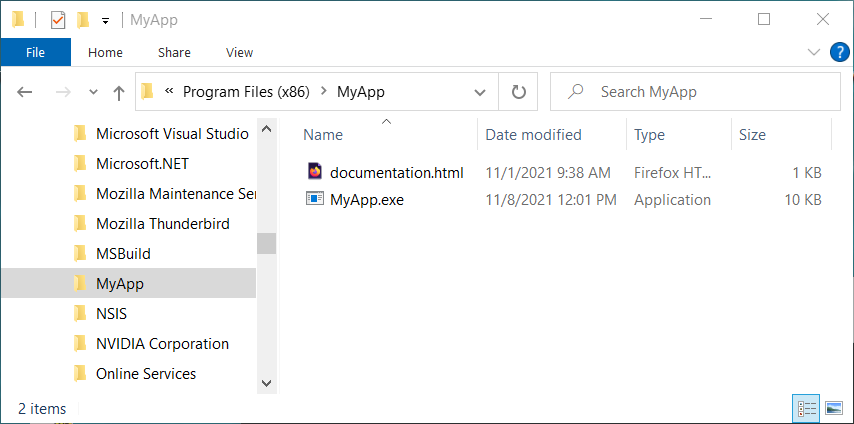
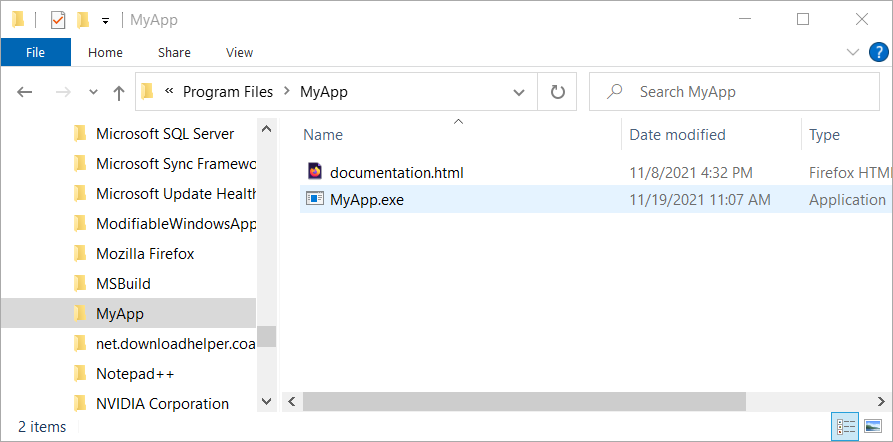
use variables ProgramFiles64Folder/System64Folder

diff --git a/examples/README.md b/examples/README.md
@@ -51,7 +51,7 @@ Y:\examples\MyApp
 &nbsp;
 <b>&gt; <a href="https://docs.microsoft.com/en-us/windows-server/administration/windows-commands/tree">tree</a> /f . | <a href="https://docs.microsoft.com/en-us/windows-server/administration/windows-commands/findstr">findstr</a> /v /b [a-z]</b>
 │   <a href="./MyApp/build.bat">build.bat</a>          <i>(calls candle/light)</i>
-│   <a href="./MyApp/build.properties">build.properties</a>   <i>(contains GUID values)</i>
+│   <a href="./MyApp/build.properties">build.properties</a>   <i>(contains GUID (name,value) pairs)</i>
 ├───<b>app</b>
 │   └───<b>HelloWorld</b>
 │       │   <a href="./MyApp/app/HelloWorld/00download.txt">00download.txt</a>
@@ -63,7 +63,7 @@ Y:\examples\MyApp
 │           └───<b>src</b>
 │                   <a href="./MyApp/app/HelloWorld/cpp/src/main.cpp">main.cpp</a>
 └───<b>src</b>
-        <a href="./MyApp/src/MyApp.wxs">MyApp.wxs</a>
+        <a href="./MyApp/src/MyApp.wxs">MyApp.wxs</a>      <i>(contains GUID names)</i>
 </pre>
 
 > **:mag_right:** In order the have a *self-contained* example we include the [`HelloWorld`](./MyApp/HelloWorld/) subproject which contains a simple [Visual Studio solution][vs_solution] for generating `MyApp.exe` to be added to the `MyApp` Windows installer.
@@ -77,8 +77,8 @@ Copy executable "MyApp.exe" to directory "Y:\examples\MyApp\app\"
 Generate auxiliary WXS file
 [...]
 Compiling 1 WXS files to directory "target"
-Create Windows installer "target\MyApp.msi"
-Execute Windows installer "target\MyApp.msi"
+Create Windows installer "target\MyApp-1.0.0.msi"
+Execute Windows installer "target\MyApp-1.0.0.msi"
 </pre>
 
 Figures **1.1** and **1.2** below illustrate the updated user environment after the successful execution of the `MyApp` Windows installer.
@@ -89,7 +89,7 @@ Figures **1.1** and **1.2** below illustrate the updated user environment after 
 <tr>
 <td style="text-align:center;">
   <a href="images/MyApp.png"><img style="max-width:180px;" src="images/MyApp.png" /></a>
-  <div style="font-size:70%;"><b>Figure 1.1 -</b> <i>MyApp</i> executable<br>(<i>Program Files (x86)</i> folder).
+  <div style="font-size:70%;"><b>Figure 1.1 -</b> <i>MyApp</i> executable<br>(<i>Program Files</i> folder).
 </td>
 <td style="text-align:center;">
   <a href="images/MyApp_Uninstall.png"><img style="max-width:180px;" src="images/MyApp_Uninstall.png" /></a>
@@ -118,20 +118,20 @@ Figures **2.1** to **2.4** below illustrate the updated user environment after t
 <td style="text-align:center;">
   <div>
   <a href="images/MyAppShortcuts.png"><img style="max-width:180px;" src="images/MyAppShortcuts.png" /></a>
-  <div style="font-size:70%;"><b>Figure 2.1 -</b> <i>MyApp</i> executable<br/>(<i>Program Files (x86)</i> folder).<br/>&nbsp;
+  <div style="font-size:70%;"><b>Figure 2.1 -</b> <i>MyApp</i> executable<br/>(<i>Program Files</i> folder).<br/>&nbsp;
   </div>
   <div>
-  <a href="images/MyAppShortcuts_Menu.png"><img style="max-width:180px;" src="images/MyAppShortcuts_Menu.png" /></a>
+  <a href="images/MyAppShortcuts_StartMenu.png"><img style="max-width:180px;" src="images/MyAppShortcuts_StartMenu.png" /></a>
   <div style="font-size:70%;"><b>Figure 2.2 -</b> <i>MyApp</i> shortcuts<br/>(<a href="https://support.microsoft.com/en-us/windows/see-what-s-on-the-start-menu-a8ccb400-ad49-962b-d2b1-93f453785a13"><i>Start Menu</i></a> folder).
   </div>
 </td>
 <td style="text-align:center;">
   <a href="images/MyAppShortcuts_Uninstall.png"><img style="max-width:180px;" src="images/MyAppShortcuts_Uninstall.png" /></a>
-  <div style="font-size:70%;"><b>Figure 2.3 -</b> Uninstalling <i>MyApp</i><br/>(<i>Settings</i> window).
+  <div style="font-size:70%;"><b>Figure 2.3 -</b> Uninstall <i>MyApp</i><br/>(<i>Settings</i> window).
 </td>
 <td style="text-align:center;">
   <a href="images/MyAppShortcuts_Uninstall_Properties.png"><img style="max-width:180px;" src="images/MyAppShortcuts_Uninstall_Properties.png" /></a>
-  <div style="font-size:70%;"><b>Figure 2.4 -</b> Shortcut Properties<br/>(<i>Uninstall</i> shortcut).
+  <div style="font-size:70%;"><b>Figure 2.4 -</b> Shortcut properties<br/>(<i>Uninstall</i> shortcut).
 </td>
 </tr>
 </table>
@@ -152,7 +152,7 @@ Y:\examples\MyAppLocalized
 ├───<b>app</b>
 │   │   <a href="./MyAppLocalized/app/documentation.html">documentation.html</a>
 │   └───<b>HelloWorld</b>
-│           <i>(same as before)</i>
+│           ... <i>(same as before)</i>
 └───<b>src</b>
     │   <a href="./MyAppLocalized/src/Includes.wxi">Includes.wxi</a>
     │   <a href="./MyAppLocalized/src/MyAppLocalized.wxs">MyAppLocalized.wxs</a>
@@ -161,6 +161,22 @@ Y:\examples\MyAppLocalized
             <a href="./MyAppLocalized/src/localizations/en-US.xwl">en-US.wxl</a>
             <a href="./MyAppLocalized/src/localizations/fr-FR.wxl">fr-FR.wxl</a>
             <a href="./MyAppLocalized/src/localizations/README.txt">README.txt</a>
+</pre>
+
+The batch subcommand `link`generates one localized Windows installer for every localization file found in the directory `src\localizations\`.
+
+<pre style="font-size:80%;">
+<b>&gt; <a href="./MyAppLocalized/build.bat">build</a> clean link &amp;&amp; <a href="https://docs.microsoft.com/en-us/windows-server/administration/windows-commands/dir">dir</a> /a-d /b target</b>
+candle_opts.txt
+candle_sources.txt
+light_opts.txt
+MyApp-1.0.0-de-DE.msi
+MyApp-1.0.0-de-DE.wixpdb
+MyApp-1.0.0-fr-FR.msi
+MyApp-1.0.0-fr-FR.wixpdb
+MyApp-1.0.0.msi
+MyApp-1.0.0.wixpdb
+MyAppLocalized.wixobj
 </pre>
 
 ## <span id="myapp_features">MyAppFeatures</span>
@@ -221,21 +237,21 @@ Figures **3.1** to **3.4** below illustrate the localized graphical user interfa
 <td style="text-align:center;">
   <div>
   <a href="images/uberAgent_Setup1.png"><img style="max-width:180px;" src="images/uberAgent_Setup1.png" /></a>
-  <div style="font-size:70%;"><b>Figure 3.1 -</b> Welcome<br/>(<i>uberAgent</i> Windows installer).<br/>&nbsp;
+  <div style="font-size:70%;"><b>Figure 3.1 -</b> Welcome<br/>(<i>uberAgent</i> installer).<br/>&nbsp;
   </div>
   <div>
   <a href="images/uberAgent_Setup2.png"><img style="max-width:180px;" src="images/uberAgent_Setup2.png" /></a>
-  <div style="font-size:70%;"><b>Figure 3.2 -</b> EULA<br/><i>(uberAgent</i> Windows installer).
+  <div style="font-size:70%;"><b>Figure 3.2 -</b> EULA<br/><i>(uberAgent</i> installer).
   </div>
 </td>
 <td style="text-align:center;">
   <div>
   <a href="images/uberAgent_Setup3.png"><img style="max-width:180px;" src="images/uberAgent_Setup3.png" /></a>
-  <div style="font-size:70%;"><b>Figure 3.3 -</b> Destination Folder<br/>(<i>uberAgent</i> Windows installer).<br/>&nbsp;
+  <div style="font-size:70%;"><b>Figure 3.3 -</b> Destination Folder<br/>(<i>uberAgent</i> installer).<br/>&nbsp;
   </div>
   <div>
   <a href="images/uberAgent_Setup4.png"><img style="max-width:180px;" src="images/uberAgent_Setup4.png" /></a>
-  <div style="font-size:70%;"><b>Figure 3.4 -</b> Receiver Configuration<br/><i>(uberAgent</i> Windows installer).
+  <div style="font-size:70%;"><b>Figure 3.4 -</b> Receiver Configuration<br/><i>(uberAgent</i> installer).
   </div>
 </td>
 </tr>

diff --git a/RESOURCES.md b/RESOURCES.md
@@ -25,14 +25,17 @@
   - [Create a Windows Installer "MSI" using WiX part2](https://sorceryforce.net/en/tips/wix-installer-create2), October 2021.
   - [Create a Windows Installer "MSI" using WiX part1](https://sorceryforce.net/en/tips/wix-installer-create1), April 2020.
   - [Set up WiX to create Windows Installer for program distribution](https://sorceryforce.net/en/tips/wix-setup), April 2020.
+- [Blog](https://robmensching.com/blog/) from Rob Mensching :
+  - [The WiX toolset's "Remember Property" pattern][blog_mensching_2010], May 2010.
+  - [How to escape the ampersand in WiX and MSI UI][blog_mensching_2008], April 2008.
 - [Real-World Example: WiX/MSI Application Installer][blog_klein] by Helge Klein, February 2021.
 - [Variables and Conditional Statements in WiX][blog_kumar] by Arun Kumar, June 2014.
+- [L10N/M10N: Localization minimization][blog_arnson] by Bob Arnson, February 2013.
 - [WiX 3 Tutorial: Custom EULA License and MSI localization](https://weblogs.sqlteam.com/mladenp/2010/04/15/wix-3-tutorial-custom-eula-license-and-msi-localization/)  by Mladen Prajdić, April 2010.
 - [WiX 3 Tutorial: Generating file/directory fragments with Heat.exe](https://weblogs.sqlteam.com/mladenp/2010/02/23/wix-3-tutorial-generating-filedirectory-fragments-with-heat.exe/) by Mladen Prajdić, February 2010.
 - [WiX 3 Tutorial: Understanding main WXS and WXI file](https://weblogs.sqlteam.com/mladenp/2010/02/17/wix-3-tutorial-understanding-main-wxs-and-wxi-file/) by Mladen Prajdić, February 2010.
 - [WiX 3 Tutorial: Solution/Project structure and Dev resources](https://weblogs.sqlteam.com/mladenp/2010/02/11/wix-3-tutorial-solutionproject-structure-and-dev-resources/) by Mladen Prajdić, February 2010.
 - [Adding and Customizing Dialogs in WiX 3][blog_dizzy] by Dizzy, 2008.
-- [How to escape the ampersand in WiX and MSI UI][blog_mensching] by Rob Mensching, April 2008.
 - [WiX: A Better TALLOW – PARAFFIN (Part 3 of 3)][blog_robbin3] by John Robbins, October 2007.
 - [WiX: The Pain of WiX (Part 2 of 3)][blog_robbin2] by John Robbins, October 2007.
 - [WiX: Hints for New Users (Part 1 of 3)][blog_robbin1] by John Robbin, October 2007.
@@ -102,9 +105,11 @@ version = "12"
 [article_carlisle3]: https://www.codeproject.com/Articles/103749/Creating-a-Localized-Windows-Installer-Bootstrap-3
 [article_hashimi]: https://docs.microsoft.com/en-us/archive/msdn-magazine/2007/march/automate-releases-with-msbuild-and-windows-installer-xml
 [article_moack]: https://www.codeproject.com/Tips/105638/A-quick-introduction-Create-an-MSI-installer-with
+[blog_arnson]: https://www.joyofsetup.com/2013/02/06/l10nm10n-localization-minimization/
 [blog_dizzy]: http://www.dizzymonkeydesign.com/blog/misc/adding-and-customizing-dlgs-in-wix-3/
 [blog_klein]: (https://helgeklein.com/blog/real-world-example-wix-msi-application-installer/)
-[blog_mensching]: https://robmensching.com/blog/posts/2008/4/21/how-to-escape-the-ampersand-in-wix-and-msi-ui/
+[blog_mensching_2008]: https://robmensching.com/blog/posts/2008/4/21/how-to-escape-the-ampersand-in-wix-and-msi-ui/
+[blog_mensching_2010]: https://robmensching.com/blog/posts/2010/5/2/the-wix-toolsets-remember-property-pattern/
 [blog_robbin1]: https://www.wintellect.com/wix-hints-for-new-users-part-1-of-3/
 [blog_robbin2]: https://www.wintellect.com/wix-the-pain-of-wix-part-2-of-3/
 [blog_robbin3]: https://www.wintellect.com/wix-a-better-tallow-paraffin-part-3-of-3/

diff --git a/QUICKREF.md b/QUICKREF.md
@@ -12,6 +12,35 @@
 
 The dialog strings must be localized. [WiX][wix_toolset] comes with 40 sets of loc strings; you specify them using the `-cultures` switch to `%WIX%\light.exe`.
 
+## <span id="vars">Built-in Variables</span>
+
+The [WiX Toolset][wix_toolset] engine provides many [built-in variables](https://wixtoolset.org/documentation/manual/v3/bundle/bundle_built_in_variables.html) to be used in WiX source files. In particular, some of them are needed to target the runtime architecture (e.g. x86, x64, ia64) of the generated Windows installer.
+
+For instance, the variables below are defined as follows for a 64-bit Windows system ([CSIDL]=*"constant special item ID list"*) :
+
+| WiX variable          | [CSIDL]                        |
+|:----------------------|:--------------------------------|
+| CommonFilesFolder     | `CSIDL_PROGRAM_FILES_COMMONX86` |
+| CommonFiles64Folder   | `CSIDL_PROGRAM_FILES_COMMON`    |
+| ProgramFilesFolder    | `CSIDL_PROGRAM_FILESX86`        |
+| ProgramFiles64Folder  | `CSIDL_PROGRAM_FILES`           |
+| SystemFolder          | `CSIDL_SYSTEMX86`&nbsp;*(on&nbsp;64-bit&nbsp;Windows)* |
+| System64Folder        | `CSIDL_SYSTEm`  |
+
+The [WiX][wix_toolset] developer has to take care of them when specifying the `candle` option `-arch <name>` :
+
+<pre style="font-size:75%;">
+<b>&gt; %WIX%\candle.exe --help</b>
+Windows Installer XML Toolset Compiler version 3.11.2.4516
+Copyright (c) .NET Foundation and contributors. All rights reserved.
+
+ usage:  candle.exe [-?] [-nologo] [-out outputFile] sourceFile [sourceFile ...] [@responseFile]
+
+   -arch      set architecture defaults for package, components, etc.
+              values: x86, x64, or ia64 (default: x86)
+[...]
+</pre>
+
 ***
 
 *[mics](https://lampwww.epfl.ch/~michelou/)/November 2021* [**&#9650;**](#top)
@@ -19,4 +48,5 @@ The dialog strings must be localized. [WiX][wix_toolset] comes with 40 sets of l
 
 <!-- link refs -->
 
+[csidl]: https://docs.microsoft.com/en-us/windows/win32/shell/csidl
 [wix_toolset]: https://wixtoolset.org/
